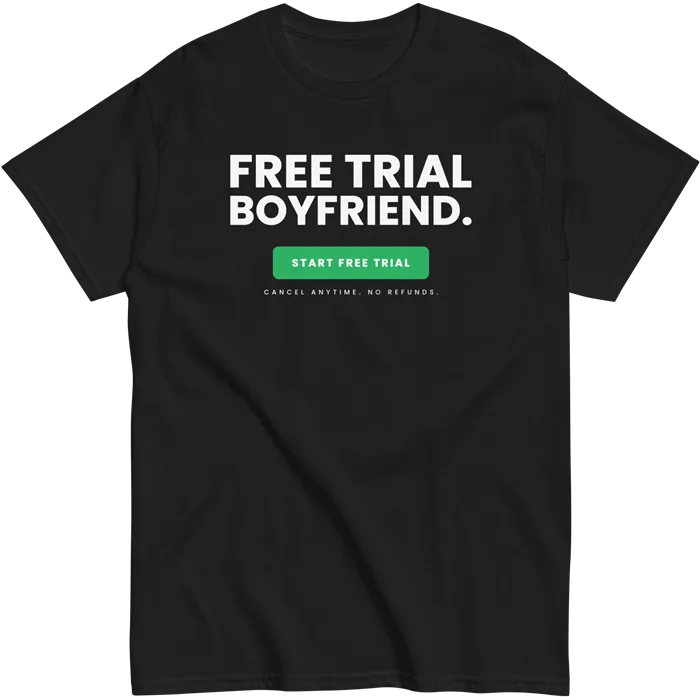
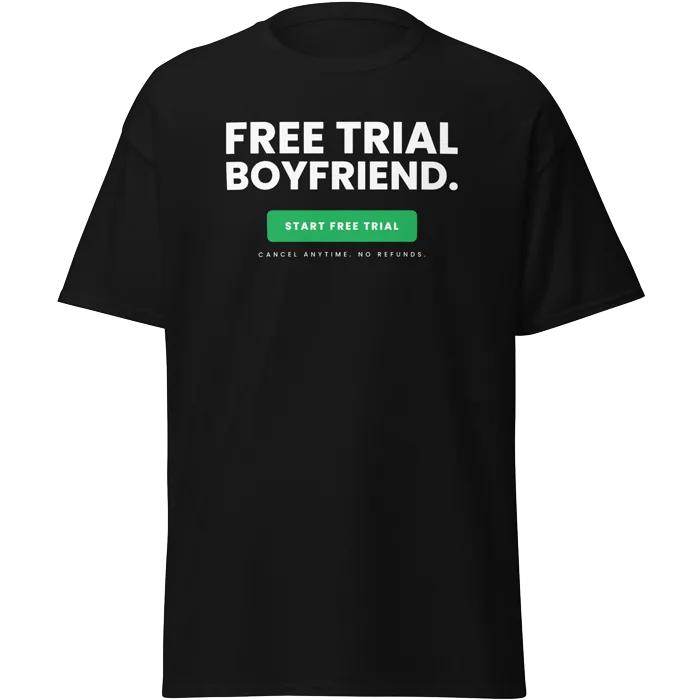
Point the boyfriend trial tee at its six-colour replacement
The tee shipped with two colourways while its girlfriend counterpart had eight,
and it was the only shirt in the catalog short of a full set. The replacement in
Shopify is a separate product, not an edit, so the handle in sync-variants moves
rather than the old one changing underneath us — nexp-free-trial-boyfriend-tee
still exists and still resolves, which is exactly why the mapping has to be
explicit.

White is the colourway that was actually blocked. The design prints in white ink,
which is invisible on a white garment, so it needed the dark-ink file as a
per-variant override before it could be sold at all. That now exists upstream,
and white carries the same $30 as everything else — the old product charged $32
at 2XL, which is why per-variant prices are read from the store instead of
derived from a size table.

Mockups are keyed off Printful's white backdrop by flood filling inward from the
border rather than by removing near-white pixels, because the white tee is itself
near-white at (244,243,239) against a (255,255,255) ground. Background is white
AND reachable from the edge; the garment is white and enclosed.

Verified against the live store: 30/30 variants mapped with no gaps, a white L
resolves to Free Trial Boyfriend Tee / White / L at $30, and a boyfriend plus a
girlfriend tee still subtotals $50 rather than $60, so the pair discount survived
the product swap.

Changed region(s): [[0.0, 0.0, 1.0, 1.0], [0.3, 0.15, 0.69, 0.42]]

diff --git a/src/data/variants.js b/src/data/variants.js
@@ -1,21 +1,41 @@
 /* GENERATED by tools/sync-variants.mjs — do not edit by hand.
  * Regenerate with: npm run sync-variants -- --write
- * Last synced: 2026-08-12T21:48:24.064Z from nexp-5.myshopify.com
+ * Last synced: 2026-08-13T18:04:11.585Z from nexp-5.myshopify.com
  */
 import { BRANDS, SIDES, SIZES, SOLD_OUT_SIZES } from './brands.js';
 
 export const VARIANT_IDS = {
   // b-lockup
-  'b-lockup|black|S': 'gid://shopify/ProductVariant/47990729572517',
-  'b-lockup|black|M': 'gid://shopify/ProductVariant/47990729605285',
-  'b-lockup|black|L': 'gid://shopify/ProductVariant/47990729638053',
-  'b-lockup|black|XL': 'gid://shopify/ProductVariant/47990729670821',
-  'b-lockup|black|2XL': 'gid://shopify/ProductVariant/47990729703589',
-  'b-lockup|maroon|S': 'gid://shopify/ProductVariant/47990729310373',
-  'b-lockup|maroon|M': 'gid://shopify/ProductVariant/47990729343141',
-  'b-lockup|maroon|L': 'gid://shopify/ProductVariant/47990729375909',
-  'b-lockup|maroon|XL': 'gid://shopify/ProductVariant/47990729408677',
-  'b-lockup|maroon|2XL': 'gid://shopify/ProductVariant/47990729441445',
+  'b-lockup|black|S': 'gid://shopify/ProductVariant/48141839007909',
+  'b-lockup|black|M': 'gid://shopify/ProductVariant/48141839040677',
+  'b-lockup|black|L': 'gid://shopify/ProductVariant/48141839073445',
+  'b-lockup|black|XL': 'gid://shopify/ProductVariant/48141839106213',
+  'b-lockup|black|2XL': 'gid://shopify/ProductVariant/48141839138981',
+  'b-lockup|charcoal|S': 'gid://shopify/ProductVariant/48141839794341',
+  'b-lockup|charcoal|M': 'gid://shopify/ProductVariant/48141839827109',
+  'b-lockup|charcoal|L': 'gid://shopify/ProductVariant/48141839859877',
+  'b-lockup|charcoal|XL': 'gid://shopify/ProductVariant/48141839892645',
+  'b-lockup|charcoal|2XL': 'gid://shopify/ProductVariant/48141839925413',
+  'b-lockup|forest green|S': 'gid://shopify/ProductVariant/48141839532197',
+  'b-lockup|forest green|M': 'gid://shopify/ProductVariant/48141839564965',
+  'b-lockup|forest green|L': 'gid://shopify/ProductVariant/48141839597733',
+  'b-lockup|forest green|XL': 'gid://shopify/ProductVariant/48141839630501',
+  'b-lockup|forest green|2XL': 'gid://shopify/ProductVariant/48141839663269',
+  'b-lockup|maroon|S': 'gid://shopify/ProductVariant/48141838745765',
+  'b-lockup|maroon|M': 'gid://shopify/ProductVariant/48141838778533',
+  'b-lockup|maroon|L': 'gid://shopify/ProductVariant/48141838811301',
+  'b-lockup|maroon|XL': 'gid://shopify/ProductVariant/48141838844069',
+  'b-lockup|maroon|2XL': 'gid://shopify/ProductVariant/48141838876837',
+  'b-lockup|navy|S': 'gid://shopify/ProductVariant/48141839270053',
+  'b-lockup|navy|M': 'gid://shopify/ProductVariant/48141839302821',
+  'b-lockup|navy|L': 'gid://shopify/ProductVariant/48141839335589',
+  'b-lockup|navy|XL': 'gid://shopify/ProductVariant/48141839368357',
+  'b-lockup|navy|2XL': 'gid://shopify/ProductVariant/48141839401125',
+  'b-lockup|white|S': 'gid://shopify/ProductVariant/48141839990949',
+  'b-lockup|white|M': 'gid://shopify/ProductVariant/48141840023717',
+  'b-lockup|white|L': 'gid://shopify/ProductVariant/48141840056485',
+  'b-lockup|white|XL': 'gid://shopify/ProductVariant/48141840089253',
+  'b-lockup|white|2XL': 'gid://shopify/ProductVariant/48141840122021',
 
   // b-taken
   'b-taken|black|S': 'gid://shopify/ProductVariant/48122042876069',
@@ -135,12 +155,32 @@ export const VARIANT_PRICES = {
   'b-lockup|black|M': 30,
   'b-lockup|black|L': 30,
   'b-lockup|black|XL': 30,
-  'b-lockup|black|2XL': 32,
+  'b-lockup|black|2XL': 30,
+  'b-lockup|charcoal|S': 30,
+  'b-lockup|charcoal|M': 30,
+  'b-lockup|charcoal|L': 30,
+  'b-lockup|charcoal|XL': 30,
+  'b-lockup|charcoal|2XL': 30,
+  'b-lockup|forest green|S': 30,
+  'b-lockup|forest green|M': 30,
+  'b-lockup|forest green|L': 30,
+  'b-lockup|forest green|XL': 30,
+  'b-lockup|forest green|2XL': 30,
   'b-lockup|maroon|S': 30,
   'b-lockup|maroon|M': 30,
   'b-lockup|maroon|L': 30,
   'b-lockup|maroon|XL': 30,
-  'b-lockup|maroon|2XL': 32,
+  'b-lockup|maroon|2XL': 30,
+  'b-lockup|navy|S': 30,
+  'b-lockup|navy|M': 30,
+  'b-lockup|navy|L': 30,
+  'b-lockup|navy|XL': 30,
+  'b-lockup|navy|2XL': 30,
+  'b-lockup|white|S': 30,
+  'b-lockup|white|M': 30,
+  'b-lockup|white|L': 30,
+  'b-lockup|white|XL': 30,
+  'b-lockup|white|2XL': 30,
 
   // b-taken
   'b-taken|black|S': 30,

diff --git a/src/data/brands.js b/src/data/brands.js
@@ -60,8 +60,11 @@ const mockups = (id, colors) => Object.fromEntries(
 
 const TEE_COLORS = ['black', 'charcoal', 'forest green', 'maroon', 'navy', 'royal'];
 const LOCKUP_COLORS = ['black', 'charcoal', 'dark heather', 'forest green', 'maroon', 'military green', 'navy', 'royal'];
-/* Only two colourways came back photographed for the boyfriend lockup so far. */
-const B_LOCKUP_COLORS = ['black', 'maroon'];
+/* The boyfriend lockup is its own list because it is the one tee that carries
+   white. White needs the dark-ink print file rather than the light one every
+   dark colourway uses, so it only became sellable once that variant override
+   existed in Printful. */
+const B_LOCKUP_COLORS = ['black', 'charcoal', 'forest green', 'maroon', 'navy', 'white'];
 
 /* Every product listed below is photographed. Designs without a mockup —
    upgrade to premium, terms & conditions, the girlfriend expired tee, and both
